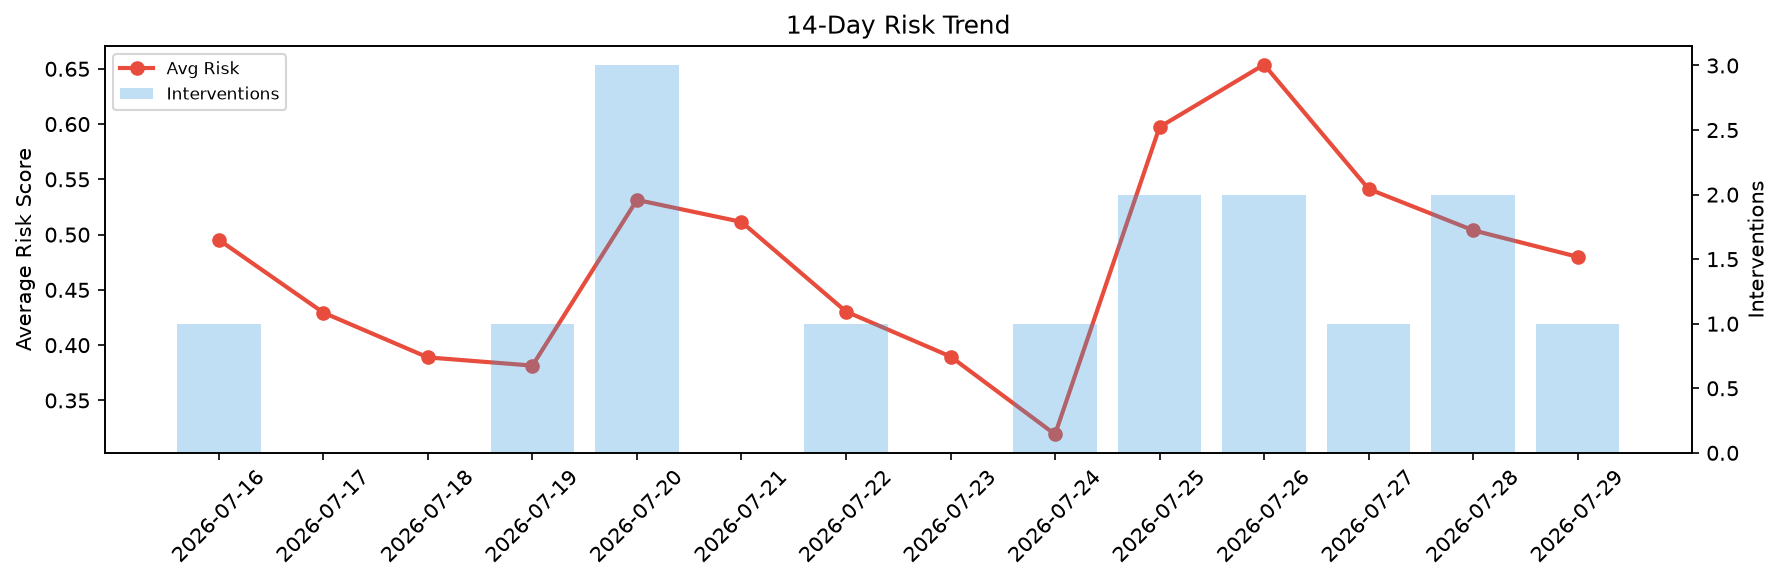
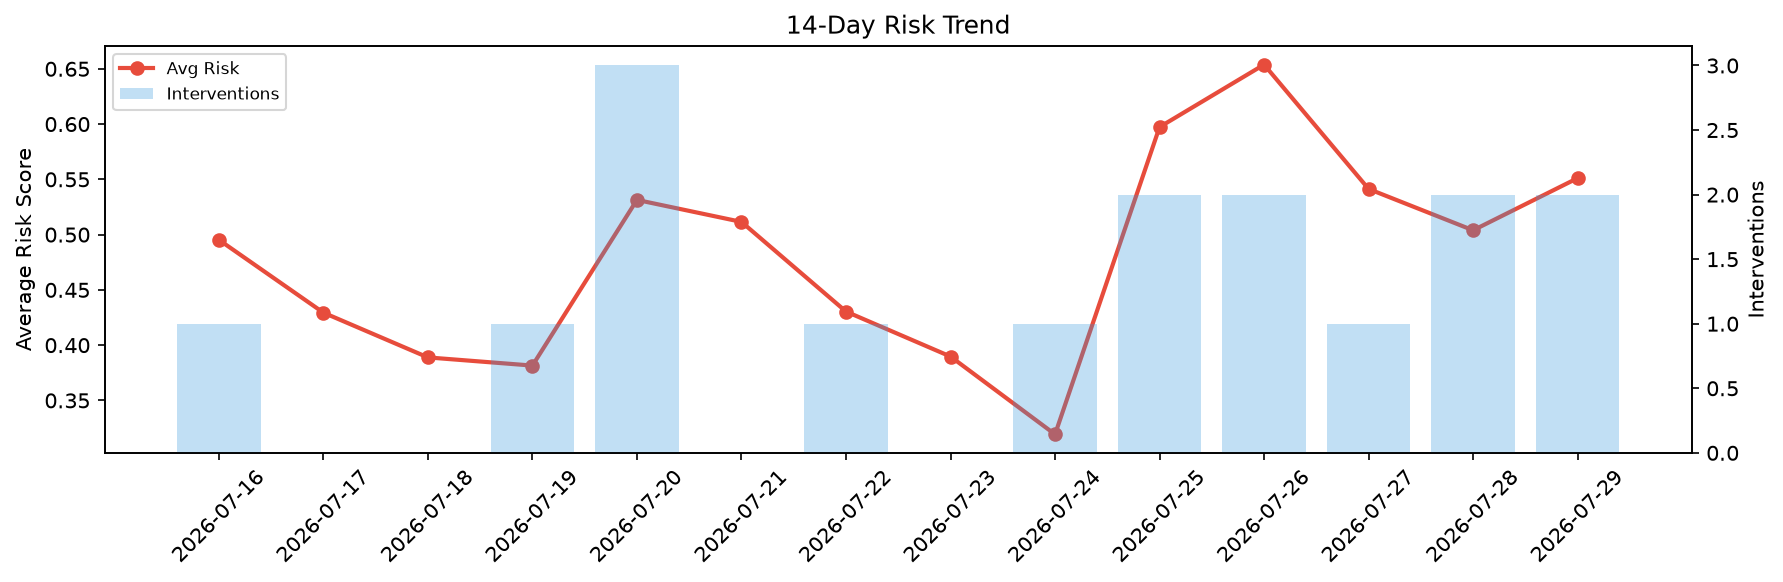
agent-improvement: daily cycle 2026-07-29T21:11

Changed region(s): [[0.8329, 0.2784, 0.9254, 0.5567]]

diff --git a/logs/2026-07-29.md b/logs/2026-07-29.md
@@ -1,6 +1,6 @@
 # Agent Improvement Report — 2026-07-29
 
-**Cycle ID:** `8f5655f3` | **Avg Risk:** 0.4799 | **Interventions:** 1/4
+**Cycle ID:** `429512fc` | **Avg Risk:** 0.5511 | **Interventions:** 2/4
 
 ![Dashboard](2026-07-29_dashboard.png)
 
@@ -10,18 +10,18 @@
 
 | Domain | Risk Score | Decision | Alerts |
 |--------|-----------|----------|--------|
-| code_review | 0.5901 | monitor | complexity |
-| incident_response | 0.3099 | monitor | none |
-| data_pipeline | 0.6473 | intervene | schema_drift |
-| deployment | 0.3725 | monitor | canary_error |
+| code_review | 0.7614 | intervene | duplication, coverage |
+| incident_response | 0.6777 | intervene | blast_radius |
+| data_pipeline | 0.5239 | monitor | freshness |
+| deployment | 0.2416 | monitor | none |
 
 ## Delta vs Yesterday
 
 | Domain | Today | Yesterday | Change |
 |--------|-------|-----------|--------|
-| code_review | 0.5901 | 0.3756 | 📈 57.1% |
-| incident_response | 0.3099 | 0.6882 | 📉 -55.0% |
-| data_pipeline | 0.6473 | 0.6615 | 📉 -2.1% |
-| deployment | 0.3725 | 0.2903 | 📈 28.3% |
+| code_review | 0.7614 | 0.3756 | 📈 102.7% |
+| incident_response | 0.6777 | 0.6882 | 📉 -1.5% |
+| data_pipeline | 0.5239 | 0.6615 | 📉 -20.8% |
+| deployment | 0.2416 | 0.2903 | 📉 -16.8% |
 
 **Refinement:** `{'adjustment': 'maintain', 'trend': 'improving', 'window': 4}`
